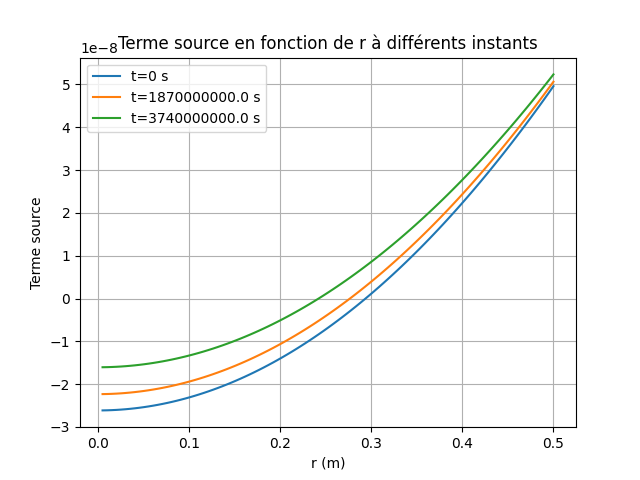
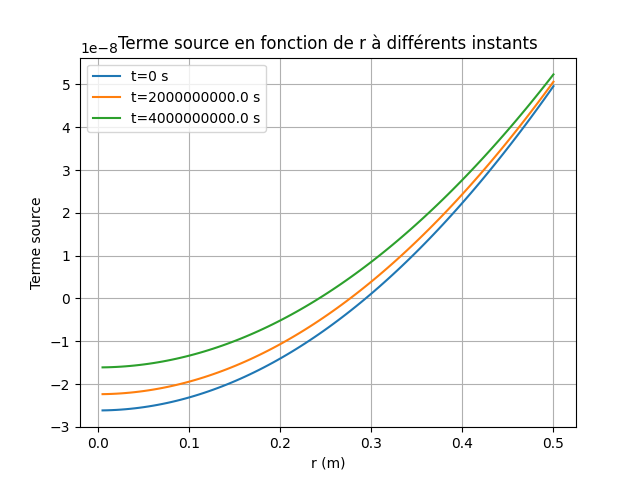
Ajout question f

Changed region(s): [[0.125, 0.5938, 0.9062, 0.625], [0.2188, 0.1875, 0.4062, 0.25], [0.1562, 0.75, 0.25, 0.7812]]

diff --git a/Devoir 2/src/main.py b/Devoir 2/src/main.py
@@ -141,7 +141,7 @@ plt.show()
 ##############################################################################
 # Analyse de convergence temporelle avec delta spatial fixé à 0,125 m (5 points)
 ##############################################################################
-list_N_temporel=[2, 3, 4, 5, 10, 20, 30, 50, 100, 200, 300, 500, 1000]
+list_N_temporel=[100, 200, 300, 500, 1000, 2000, 3000, 5000, 10000, 20000, 30000, 50000]
 
 delta_r = R/(20-1)      # en m
 N_spatial = 20
@@ -173,21 +173,21 @@ plt.figure()
 
 # L1
 plt.plot(vectDelta_t, vectL1, 'o', color='red', label='L1')
-slope_L1, intercept_L1, r_value_L1, p_value_L1, std_err_L1 = linregress(np.log(vectDelta_t[6:]), np.log(vectL1[6:]))
-y_pred_L1 =  np.exp(intercept_L1) * vectDelta_t[6:]**slope_L1
-plt.plot(vectDelta_t[6:], y_pred_L1, '--', color='red', label=f'Ordre de convergence L1: {slope_L1}')
+slope_L1, intercept_L1, r_value_L1, p_value_L1, std_err_L1 = linregress(np.log(vectDelta_t[:3]), np.log(vectL1[:3]))
+y_pred_L1 =  np.exp(intercept_L1) * vectDelta_t[:3]**slope_L1
+plt.plot(vectDelta_t[:3], y_pred_L1, '--', color='red', label=f'Ordre de convergence L1: {slope_L1}')
 
 # L2
 plt.plot(vectDelta_t, vectL2, 'o', color='green', label='L2')
-slope_L2, intercept_L2, r_value_L2, p_value_L2, std_err_L2 = linregress(np.log(vectDelta_t[6:]), np.log(vectL2[6:]))
-y_pred_L2 = np.exp(intercept_L2) * vectDelta_t[6:]**slope_L2
-plt.plot(vectDelta_t[6:], y_pred_L2, '--', color='green', label=f'Ordre de convergence L2: {slope_L2}')
+slope_L2, intercept_L2, r_value_L2, p_value_L2, std_err_L2 = linregress(np.log(vectDelta_t[:3]), np.log(vectL2[:3]))
+y_pred_L2 = np.exp(intercept_L2) * vectDelta_t[:3]**slope_L2
+plt.plot(vectDelta_t[:3], y_pred_L2, '--', color='green', label=f'Ordre de convergence L2: {slope_L2}')
 
 # Linf
 plt.plot(vectDelta_t, vectLinf, 'o', color='blue', label='Linf')
-slope_L3, intercept_L3, r_value_L3, p_value_L3, std_err_L3 = linregress(np.log(vectDelta_t[6:]), np.log(vectLinf[6:]))
-y_pred_Linf = np.exp(intercept_L3) * vectDelta_t[6:]**slope_L3
-plt.plot(vectDelta_t[6:], y_pred_Linf, '--', color='blue', label=f'Ordre de convergence Linf: {slope_L3}')
+slope_L3, intercept_L3, r_value_L3, p_value_L3, std_err_L3 = linregress(np.log(vectDelta_t[:3]), np.log(vectLinf[:3]))
+y_pred_Linf = np.exp(intercept_L3) * vectDelta_t[:3]**slope_L3
+plt.plot(vectDelta_t[:3], y_pred_Linf, '--', color='blue', label=f'Ordre de convergence Linf: {slope_L3}')
 
 plt.title('Erreurs L1, L2 et Linf en fonction du nombre de points N temporels')
 plt.legend()
@@ -197,4 +197,24 @@ plt.xlabel('Delta t (s)')
 plt.ylabel('Erreur (mol/m^3)')
 plt.grid(True, which="both", ls="--")
 plt.savefig('Devoir 2/results/erreurs_temporels.png')
+plt.show()
+
+
+###################################################
+# Tracer de la concentration pour N=11 (question f)
+###################################################
+N_spatial = 11
+N_temporel = 100
+delta_r = R/(N_spatial-1)
+delta_t = Tf/(N_temporel-1)
+
+C_i_n, r_i, t_i=functions.Concentrations(delta_r, delta_t)
+plt.figure()
+plt.plot(r_i, C_i_n[-1,:], label='Concentration à t=4e9 s')
+plt.title("Concentration en fonction de r pour N=11")
+plt.xlabel('r (m)')
+plt.ylabel('Concentration (mol/m^3)')
+plt.legend()
+plt.grid()
+plt.savefig('Devoir 2/results/trace_question_f.png')
 plt.show()

diff --git a/Devoir 2/src/functions.py b/Devoir 2/src/functions.py
@@ -65,9 +65,9 @@ def Concentrations(delta_r, delta_t):
 
     # Construction de la matrice A (Coefficients de l'équation aux différences finies)
     for i in range(1, N_spatial - 1):
-        matA[i, i - 1] = D_EFF * (1 / delta_r**2 - 1 / (2 * r_i[i] * delta_r))
-        matA[i, i] = - (k + (1 / delta_t) + 2 * (D_EFF / delta_r**2))
-        matA[i, i + 1] = D_EFF * (1 / delta_r**2 + 1 / (2 * r_i[i] * delta_r))
+        matA[i, i - 1] = D_EFF * (1 / delta_r**2 - 1 / (2 * r_i[i] * delta_r))  # Coeff devant C_i-1
+        matA[i, i] = - (k + (1 / delta_t) + 2 * (D_EFF / delta_r**2))           # Coeff devant C_i
+        matA[i, i + 1] = D_EFF * (1 / delta_r**2 + 1 / (2 * r_i[i] * delta_r))  # Coeff devant C_i+1
 
     # Boucle temporelle pour résoudre C_i à chaque pas de temps
     for i in range(len(t_i)):

diff --git a/Devoir 2/src/config.py b/Devoir 2/src/config.py
@@ -10,5 +10,5 @@ D_EFF = 1e-10       # en m^2/s
 C_E = 20            # en mol/m^3
 D = 1               # en m
 R = D/2             # en m
-Tf = 3.74e9         # Temps caractéristique
+Tf = 4e9            # Temps caractéristique
 k = 4e-9            # Coefficient de réaction
